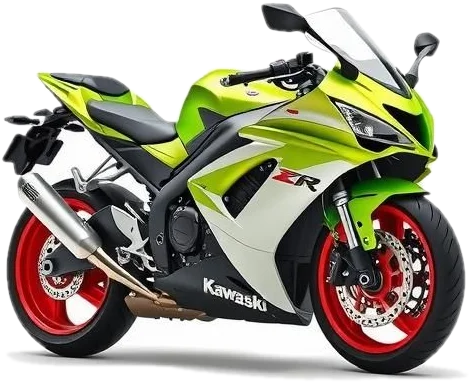
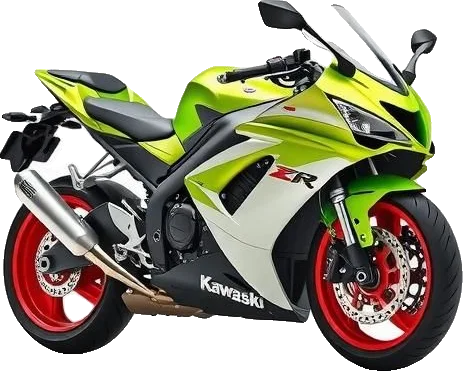
Hero slider cycles all bikes; clean cutouts; full-bleed layout
- Re-cut all product photos with ML background removal (incl. R6 and Venom helmet)
- Hero slider now includes every bike with category, power, top speed and slide counter
- Mirror left-facing photos in the hero so all bikes face the same way
- Remove the dark outer frame so the page fills the screen
- Fix hero bike sizing on tablets, en-US price format, paint resets per slide

Claude-Session: https://claude.ai/code/session_01AP6ToDC4dbQgg87VF8GWka

diff --git a/src/pages/Home.tsx b/src/pages/Home.tsx
@@ -1,7 +1,7 @@
 import { useRef, useState } from 'react'
 import { Link } from 'react-router-dom'
 import { AnimatePresence, motion, useScroll, useSpring, useTransform } from 'framer-motion'
-import { bikes, gear, heroBikes, money } from '../data'
+import { amount, bikes, gear, heroBikes, money } from '../data'
 import { useCart } from '../cart'
 import { ArrowLeft, ArrowRight, Calendar, Check, Engine, Fuel, Gauge, Rider, Wheel } from '../components/Icons'
 import BikeImage from '../components/BikeImage'
@@ -21,17 +21,22 @@ const wrap = (i: number, n: number) => ((i % n) + n) % n
 
 export default function Home() {
   const [[index, dir], setState] = useState<[number, number]>([0, 0])
-  const [paint, setPaint] = useState(0)
+  // null = the bike's factory paint; a swatch index = custom paint chosen by the rider
+  const [paint, setPaint] = useState<number | null>(null)
   const { add } = useCart()
   const bike = heroBikes[index]
   const prev = heroBikes[wrap(index - 1, heroBikes.length)]
   const next = heroBikes[wrap(index + 1, heroBikes.length)]
-  const go = (d: number) => setState(([i]) => [wrap(i + d, heroBikes.length), d])
+  const go = (d: number) => {
+    setState(([i]) => [wrap(i + d, heroBikes.length), d])
+    setPaint(null)
+  }
 
   // Paint swatch that matches one of the bike's factory images swaps the hero photo.
-  const factory = bike.colors.find((c) => c.hex.toLowerCase() === PAINTS[paint].hex.toLowerCase() && c.image)
+  const chosen = paint === null ? null : PAINTS[paint]
+  const factory = chosen && bike.colors.find((c) => c.hex.toLowerCase() === chosen.hex.toLowerCase())
   const heroSrc = factory?.image ?? bike.image
-  const paintExtra = factory || bike.colors[0]?.hex.toLowerCase() === PAINTS[paint].hex ? 0 : PAINT_PRICE
+  const paintExtra = chosen && !factory ? PAINT_PRICE : 0
 
   const heroRef = useRef<HTMLElement>(null)
   const { scrollYProgress } = useScroll({ target: heroRef, offset: ['start start', 'end start'] })
@@ -58,6 +63,14 @@ export default function Home() {
                 {bike.name} <span className="red">{bike.brand}</span>
               </h1>
               <p className="muted lead">{bike.tagline}</p>
+              <div className="hero-meta">
+                <span className="chip">{bike.category}</span>
+                <span>{bike.specs.power}</span>
+                <span>{bike.specs.topSpeed}</span>
+                <Link to={`/models/${bike.id}`} className="link-under">
+                  View details →
+                </Link>
+              </div>
             </motion.div>
           </AnimatePresence>
           <AnimatePresence mode="wait">
@@ -71,7 +84,7 @@ export default function Home() {
             >
               <div className="price-big">
                 <span className="dollar">$</span>
-                {(bike.price + paintExtra).toLocaleString('de-DE')}
+                {amount(bike.price + paintExtra)}
               </div>
               <Link to="/models" className="muted lead link-under">
                 Explore bikes by price.
@@ -93,7 +106,7 @@ export default function Home() {
               exit={{ opacity: 0 }}
               transition={{ duration: 0.5 }}
             >
-              <BikeImage src={prev.image} alt="" />
+              <BikeImage src={prev.image} alt="" className={prev.flip ? 'flipped' : ''} />
             </motion.button>
             <motion.button
               key={'n' + next.id}
@@ -105,7 +118,7 @@ export default function Home() {
               exit={{ opacity: 0 }}
               transition={{ duration: 0.5 }}
             >
-              <BikeImage src={next.image} alt="" />
+              <BikeImage src={next.image} alt="" className={next.flip ? 'flipped' : ''} />
             </motion.button>
           </AnimatePresence>
 
@@ -115,7 +128,7 @@ export default function Home() {
                 key={heroSrc}
                 src={heroSrc}
                 alt={`${bike.brand} ${bike.name}`}
-                className="main-bike"
+                className={"main-bike" + (bike.flip && heroSrc === bike.image ? " flipped" : "")}
                 custom={dir}
                 variants={{
                   enter: (d: number) => ({ x: d >= 0 ? '45%' : '-45%', opacity: 0, scale: 0.8 }),
@@ -138,6 +151,9 @@ export default function Home() {
           </motion.div>
 
           <div className="carousel-ctrl">
+            <span className="slide-count">
+              {String(index + 1).padStart(2, '0')} / {String(heroBikes.length).padStart(2, '0')}
+            </span>
             <button aria-label="Previous bike" onClick={() => go(-1)}>
               <ArrowLeft />
             </button>
@@ -191,11 +207,11 @@ export default function Home() {
               <p>
                 <b>Your bike, your style</b> — choose the colors that define your ride and make it stand out from the crowd.
               </p>
-              <div className="price-md">{paintExtra ? '+' + money(paintExtra) : 'Included'}</div>
+              <div className="price-md">{paintExtra ? '+' + money(paintExtra) : chosen ? 'Included' : '+' + money(PAINT_PRICE)}</div>
               <button
                 className="btn btn-dark btn-sm"
                 onClick={() =>
-                  add({ id: bike.id, name: `${bike.brand} ${bike.name}`, price: bike.price + paintExtra, image: heroSrc, variant: PAINTS[paint].name })
+                  add({ id: bike.id, name: `${bike.brand} ${bike.name}`, price: bike.price + paintExtra, image: heroSrc, variant: chosen?.name ?? bike.colors[0]?.name })
                 }
               >
                 Add to order

diff --git a/src/data.ts b/src/data.ts
@@ -5,9 +5,9 @@ export type Bike = {
   tagline: string
   price: number
   image: string
-  /** true when the photo is a clean side profile on white — used in the hero carousel */
-  profile?: boolean
-  /** photo has its own studio backdrop, so don't blend it into the page */
+  /** photo faces left — mirrored in the hero so every bike faces the same way */
+  flip?: boolean
+  /** photo has its own studio backdrop, so show it full-bleed */
   backdrop?: boolean
   category: 'Superbike' | 'Sport' | 'Naked' | 'ATV'
   specs: {
@@ -42,7 +42,6 @@ export const bikes: Bike[] = [
     tagline: 'Twin-cylinder track precision.',
     price: 32000,
     image: img('panigale-red'),
-    profile: true,
     category: 'Superbike',
     specs: { fuel: 'Petrol', year: 2024, accel: '3.1s', body: 'Superbike', engine: 'V2 90°', power: '155 hp', mileage: '1,112 mi', topSpeed: '285 km/h' },
     colors: [
@@ -57,7 +56,6 @@ export const bikes: Bike[] = [
     tagline: 'Italian sunshine, 155 horses.',
     price: 33400,
     image: img('panigale-yellow'),
-    profile: true,
     category: 'Superbike',
     specs: { fuel: 'Petrol', year: 2025, accel: '3.0s', body: 'Superbike', engine: 'V2 90°', power: '155 hp', mileage: '0 mi', topSpeed: '285 km/h' },
     colors: [
@@ -72,7 +70,6 @@ export const bikes: Bike[] = [
     tagline: 'MotoGP DNA for the road.',
     price: 28500,
     image: img('yamaha-r1'),
-    profile: true,
     category: 'Superbike',
     specs: { fuel: 'Petrol', year: 2024, accel: '2.9s', body: 'Superbike', engine: 'CP4 998cc', power: '200 hp', mileage: '640 mi', topSpeed: '299 km/h' },
     colors: [{ name: 'Racing Red', hex: '#d71920' }],
@@ -84,7 +81,6 @@ export const bikes: Bike[] = [
     tagline: 'The everyday ninja.',
     price: 6200,
     image: img('kawasaki-ninja-green'),
-    profile: true,
     category: 'Sport',
     specs: { fuel: 'Petrol', year: 2023, accel: '5.4s', body: 'Sport', engine: 'Parallel 296cc', power: '39 hp', mileage: '2,300 mi', topSpeed: '180 km/h' },
     colors: [{ name: 'Lime Green', hex: '#3fb21b' }],
@@ -96,7 +92,6 @@ export const bikes: Bike[] = [
     tagline: 'Racing blue, everyday rider.',
     price: 5800,
     image: img('yamaha-r3'),
-    profile: true,
     category: 'Sport',
     specs: { fuel: 'Petrol', year: 2024, accel: '5.6s', body: 'Sport', engine: 'Parallel 321cc', power: '41 hp', mileage: '0 mi', topSpeed: '188 km/h' },
     colors: [{ name: 'Team Blue', hex: '#1446c8' }],
@@ -108,7 +103,6 @@ export const bikes: Bike[] = [
     tagline: 'Small engine, big attitude.',
     price: 7400,
     image: img('honda-cbr250rr'),
-    profile: true,
     category: 'Sport',
     specs: { fuel: 'Petrol', year: 2024, accel: '5.9s', body: 'Sport', engine: 'Parallel 250cc', power: '41 hp', mileage: '0 mi', topSpeed: '186 km/h' },
     colors: [{ name: 'Grand Prix Red', hex: '#c8102e' }],
@@ -120,7 +114,6 @@ export const bikes: Bike[] = [
     tagline: 'Screaming supersport.',
     price: 13200,
     image: img('yamaha-r6'),
-    backdrop: true,
     category: 'Superbike',
     specs: { fuel: 'Petrol', year: 2023, accel: '3.4s', body: 'Supersport', engine: 'Inline-4 599cc', power: '117 hp', mileage: '3,040 mi', topSpeed: '262 km/h' },
     colors: [{ name: 'Midnight Blue', hex: '#1b2fa8' }],
@@ -176,6 +169,7 @@ export const bikes: Bike[] = [
     tagline: 'Four wheels, no roads required.',
     price: 9800,
     image: img('kawasaki-atv'),
+    flip: true,
     category: 'ATV',
     specs: { fuel: 'Petrol', year: 2024, accel: '7.5s', body: 'Quad / ATV', engine: 'V-Twin 749cc', power: '47 hp', mileage: '80 mi', topSpeed: '110 km/h' },
     colors: [{ name: 'Lime Green', hex: '#5cc41e' }],
@@ -184,11 +178,13 @@ export const bikes: Bike[] = [
 
 export const gear: Gear[] = [
   { id: 'helmet-i11', name: 'HJC i11 Full-face', kind: 'Helmet', price: 350.5, image: img('helmet-hjc-i11') },
-  { id: 'helmet-venom', name: 'Venom Edition Helmet', kind: 'Helmet', price: 489, image: img('helmet-venom'), backdrop: true },
+  { id: 'helmet-venom', name: 'Venom Edition Helmet', kind: 'Helmet', price: 489, image: img('helmet-venom') },
   { id: 'helmet-rpha', name: 'HJC Modular Carbon', kind: 'Helmet', price: 420, image: img('helmet-hjc-rpha') },
 ]
 
-export const heroBikes = bikes.filter((b) => b.profile)
+export const heroBikes = bikes
 export const getBike = (id: string) => bikes.find((b) => b.id === id)
 export const money = (n: number) =>
-  '$' + n.toLocaleString('en-US', { minimumFractionDigits: n % 1 ? 1 : 0, maximumFractionDigits: 2 })
+  '$' + n.toLocaleString('en-US', { minimumFractionDigits: n % 1 ? 2 : 0, maximumFractionDigits: 2 })
+/** Number only, for the big hero/detail price where the $ is styled separately. */
+export const amount = (n: number) => money(n).slice(1)

diff --git a/src/index.css b/src/index.css
@@ -17,7 +17,7 @@ html { scroll-behavior: smooth; }
 body {
   font-family: 'Urbanist', system-ui, sans-serif;
   color: var(--ink);
-  background: radial-gradient(120% 80% at 50% 0%, #7a6262 0%, #3b3434 45%, #2a2626 100%) fixed;
+  background: var(--bg);
   -webkit-font-smoothing: antialiased;
   overflow-x: hidden;
 }
@@ -42,14 +42,7 @@ input, select, textarea { font: inherit; color: inherit; }
 
 .scroll-progress { position: fixed; inset: 0 0 auto; height: 3px; background: var(--red); transform-origin: 0 50%; z-index: 100; }
 
-.shell {
-  max-width: 1440px;
-  margin: clamp(0px, 4vw, 56px) auto;
-  background: var(--bg);
-  border-radius: clamp(0px, 2vw, 28px);
-  overflow: clip;
-  box-shadow: 0 40px 120px rgba(0, 0, 0, 0.45);
-}
+.shell { background: var(--bg); overflow: clip; min-height: 100vh; }
 
 /* ---------- Buttons ---------- */
 .btn {
@@ -130,11 +123,17 @@ input, select, textarea { font: inherit; color: inherit; }
   border-radius: 50%; border-bottom: 1.5px solid #cfcfcf;
   background: radial-gradient(closest-side, rgba(0, 0, 0, 0.12), transparent);
 }
-.main-bike-wrap { position: absolute; inset: 0; display: grid; place-items: center; z-index: 2; pointer-events: none; }
-.main-bike { width: min(62%, 920px); max-height: 88%; filter: drop-shadow(0 30px 30px rgba(0,0,0,.18)); cursor: grab; pointer-events: auto; touch-action: pan-y; }
+.main-bike-wrap { position: absolute; inset: 0; display: flex; align-items: center; justify-content: center; z-index: 2; pointer-events: none; }
+.main-bike { width: auto; height: auto; max-width: min(62%, 920px); max-height: 82%; filter: drop-shadow(0 30px 30px rgba(0,0,0,.18)); cursor: grab; pointer-events: auto; touch-action: pan-y; }
 .main-bike:active { cursor: grabbing; }
 .side-bike { position: absolute; top: 34%; width: clamp(140px, 20vw, 300px); z-index: 1; filter: saturate(0.85); }
-.side-bike img { width: 100%; }
+.side-bike img { width: 100%; max-height: clamp(120px, 16vw, 240px); }
+/* individual `scale` composes with Framer Motion's transform, so mirroring survives the slide animation */
+.flipped { scale: -1 1; }
+.hero-meta { display: flex; flex-wrap: wrap; align-items: center; gap: 8px 16px; margin-top: 14px; font-weight: 600; }
+.hero-meta .chip { background: #fff; }
+.hero-meta a { color: var(--red); }
+.slide-count { align-self: center; padding: 0 10px 0 8px; font-weight: 700; font-variant-numeric: tabular-nums; color: var(--muted); }
 .side-left { left: 0; transform: translateX(-30%); }
 .side-right { right: 0; transform: translateX(30%); }
 .side-bike:hover { filter: none; }
@@ -357,14 +356,13 @@ select:focus, input:focus, textarea:focus { border-color: var(--ink); }
 
 /* =================== Mobile =================== */
 @media (max-width: 640px) {
-  .shell { margin: 0; border-radius: 0; }
   .header { padding: 14px 16px; }
   .icon-btn { width: 46px; height: 46px; }
   .hero-top { flex-direction: column; gap: 10px; padding-top: 18px; }
   .hero-price { text-align: left; }
   .hero-price .price-big { margin-bottom: 6px; }
   .stage { height: 64vw; min-height: 240px; margin-top: 0; }
-  .main-bike { width: 92%; }
+  .main-bike { max-width: 92%; }
   .side-bike { display: none; }
   .carousel-ctrl button { width: 42px; height: 42px; }
   .dash { grid-template-columns: 1fr; padding: 18px 8px 8px; }

diff --git a/src/pages/Experience.tsx b/src/pages/Experience.tsx
@@ -6,7 +6,7 @@ import Reveal from '../components/Reveal'
 import { Check } from '../components/Icons'
 
 const events = [
-  { date: 'Oct 18', title: 'Track Day — Silverstone Circuit', tag: 'Track', image: '/images/yamaha-r6.webp', backdrop: true },
+  { date: 'Oct 18', title: 'Track Day — Silverstone Circuit', tag: 'Track', image: '/images/yamaha-r6.webp' },
   { date: 'Nov 02', title: 'Sunrise Coastal Group Ride', tag: 'Tour', image: '/images/kawasaki-ninja-white.webp' },
   { date: 'Nov 16', title: 'Off-road ATV Adventure', tag: 'Off-road', image: '/images/kawasaki-atv.webp' },
 ]
@@ -44,8 +44,8 @@ export default function Experience() {
         <div className="event-list">
           {events.map((e, i) => (
             <Reveal key={e.title} className="event" delay={i * 0.08}>
-              <div className={'event-img' + (e.backdrop ? ' fill' : '')}>
-                <img src={e.image} alt="" className={e.backdrop ? 'img-backdrop' : 'img-blend'} />
+              <div className="event-img">
+                <img src={e.image} alt="" className="img-blend" />
               </div>
               <div className="event-body">
                 <span className="chip">{e.tag}</span>

diff --git a/src/pages/ModelDetail.tsx b/src/pages/ModelDetail.tsx
@@ -1,7 +1,7 @@
 import { useState } from 'react'
 import { Link, useParams } from 'react-router-dom'
 import { motion } from 'framer-motion'
-import { bikes, getBike, money } from '../data'
+import { amount, bikes, getBike, money } from '../data'
 import { useCart } from '../cart'
 import BikeImage from '../components/BikeImage'
 import Reveal from '../components/Reveal'
@@ -60,7 +60,7 @@ export default function ModelDetail() {
             <p className="muted lead">{bike.tagline}</p>
             <div className="price-big detail-price">
               <span className="dollar">$</span>
-              {bike.price.toLocaleString('de-DE')}
+              {amount(bike.price)}
             </div>
           </Reveal>
           <Reveal delay={0.1}>
